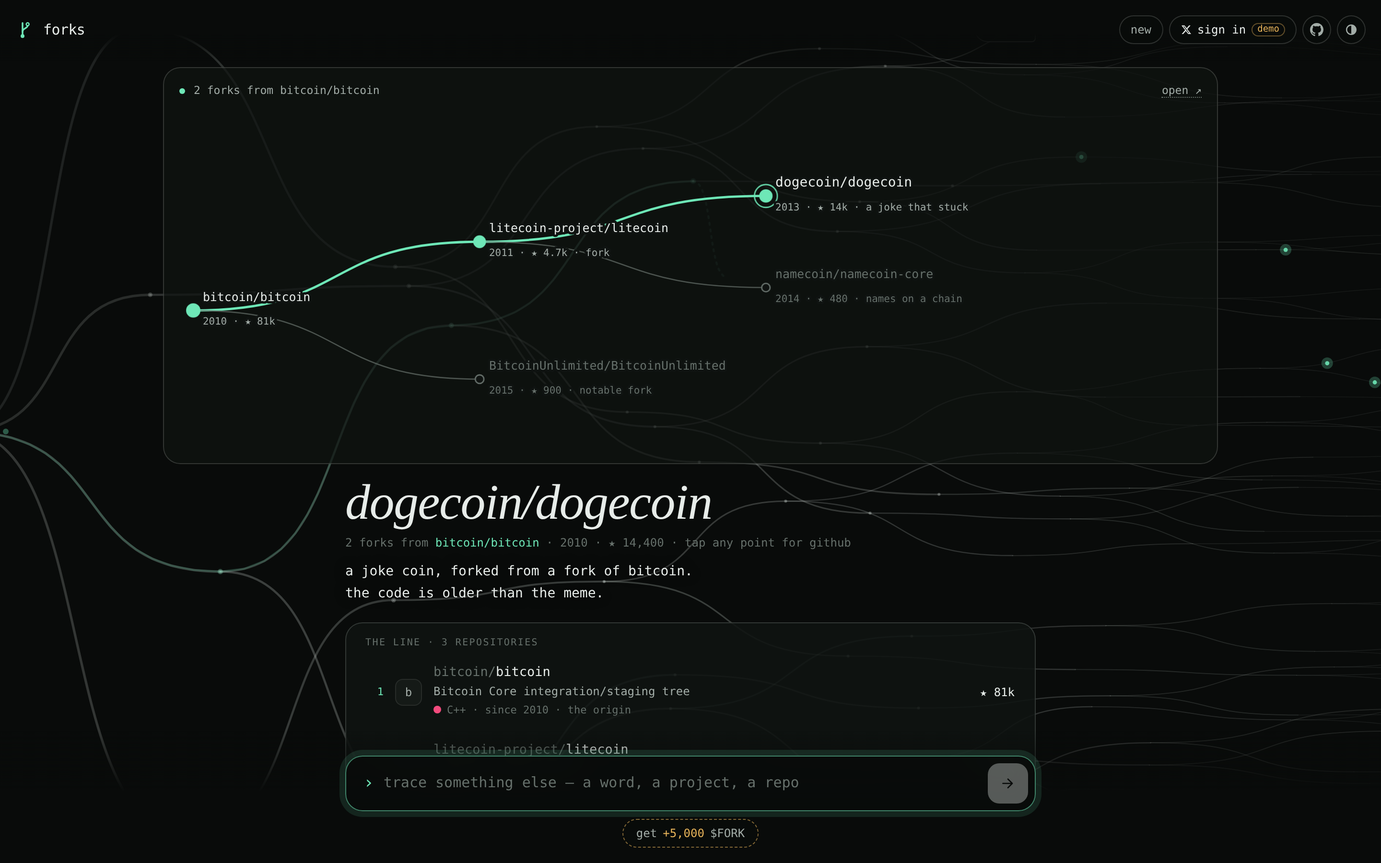
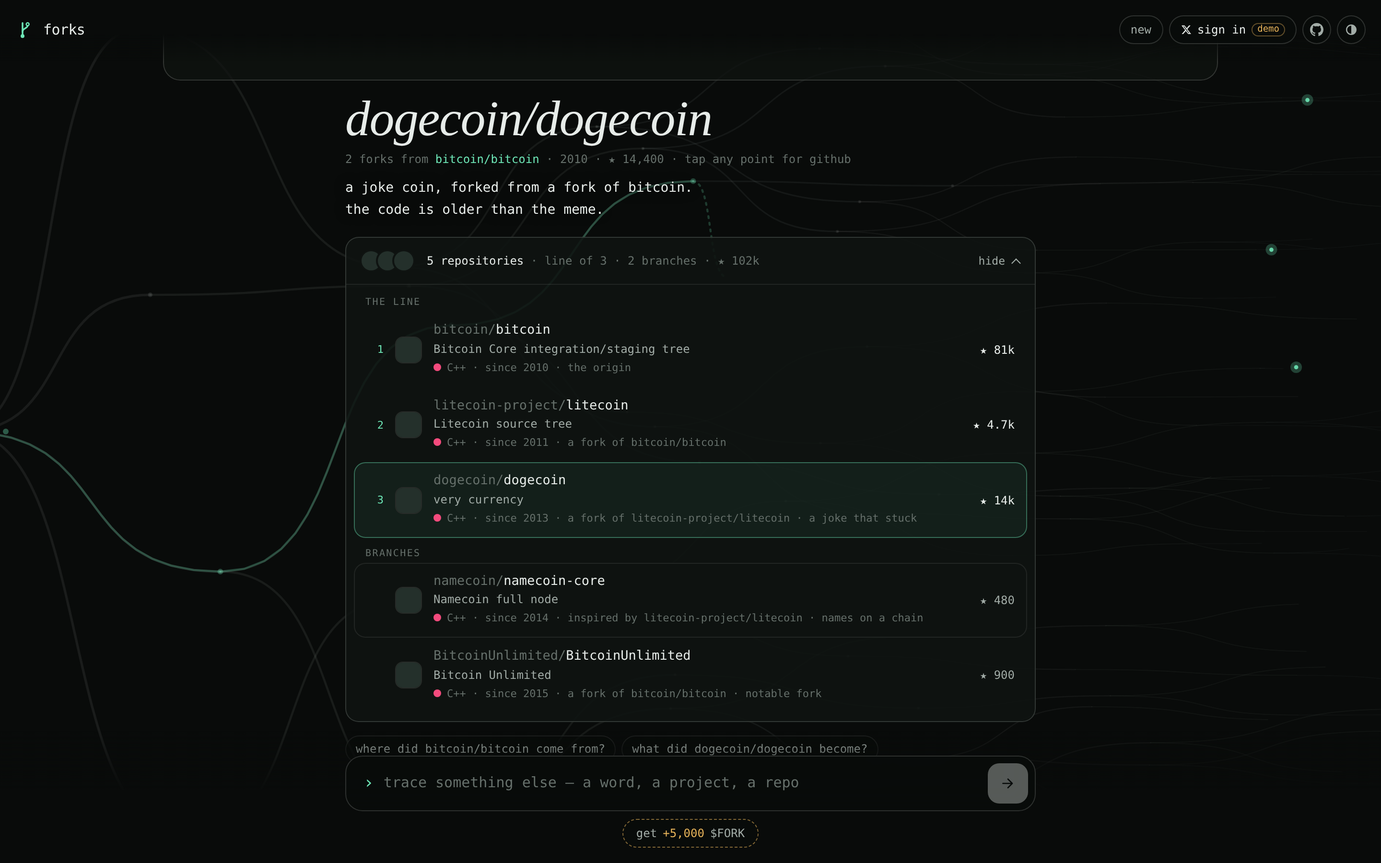
forks 3.2: folded repository list, a new face for the repo

diff --git a/index.html b/index.html
@@ -253,9 +253,20 @@ body.chat .thread { display: flex; }
 }
 
 /* ---------- the repositories under a tree ---------- */
-.line { margin-top: 18px; display: grid; gap: 2px; padding: 6px 8px 8px; border: 1px solid var(--rule-2); border-radius: 18px; background: color-mix(in srgb, var(--bg-2) 88%, transparent); backdrop-filter: blur(8px); -webkit-backdrop-filter: blur(8px); }
-.line-k { padding-left: 12px; }
-.line-k { margin: 10px 0 4px; font: 400 10px/1 var(--mono); letter-spacing: .12em; text-transform: uppercase; color: var(--ink-3); }
+.line { margin-top: 16px; border: 1px solid var(--rule-2); border-radius: 14px; background: color-mix(in srgb, var(--bg-2) 88%, transparent); backdrop-filter: blur(8px); -webkit-backdrop-filter: blur(8px); overflow: hidden; }
+.line-t { width: 100%; display: flex; align-items: center; gap: 12px; min-height: 48px; padding: 10px 14px; text-align: left; transition: background .15s; }
+.line-t:hover { background: color-mix(in srgb, var(--ink) 4%, transparent); }
+.line-avs { display: flex; flex: none; }
+.line-avs .rp-av.sm { width: 24px; height: 24px; border-radius: 50%; border: 2px solid var(--bg-2); margin-left: -7px; }
+.line-avs .rp-av.sm:first-child { margin-left: 0; }
+.line-avs .rp-av.sm b { font-size: 10px; }
+.line-s { flex: 1; min-width: 0; font: 400 12px/1.4 var(--mono); color: var(--ink-3); overflow: hidden; text-overflow: ellipsis; white-space: nowrap; }
+.line-s b { font-weight: 500; color: var(--ink); }
+.line-x { flex: none; font: 400 11.5px var(--mono); color: var(--ink-2); }
+.line-x::after { content: ""; display: inline-block; width: 6px; height: 6px; margin: 0 2px 2px 8px; border-right: 1.4px solid currentColor; border-bottom: 1.4px solid currentColor; transform: rotate(45deg); transition: transform .2s var(--ease); }
+.line.open .line-x::after { transform: rotate(-135deg); margin-bottom: -2px; }
+.line-body { padding: 2px 8px 8px; border-top: 1px solid var(--rule); animation: rise .3s var(--ease) both; }
+.line-k { margin: 12px 0 4px; padding-left: 12px; font: 400 10px/1 var(--mono); letter-spacing: .12em; text-transform: uppercase; color: var(--ink-3); }
 .rp { display: grid; grid-template-columns: auto 28px minmax(0, 1fr) auto; gap: 12px; align-items: center; padding: 10px 12px; border-radius: 12px; border: 1px solid transparent; text-decoration: none; color: inherit; transition: background .15s, border-color .15s, transform .15s var(--ease); }
 .rp:hover { background: color-mix(in srgb, var(--bg-2) 85%, transparent); border-color: var(--rule); }
 .rp:active { transform: scale(.995); }

diff --git a/src/app.js b/src/app.js
@@ -178,9 +178,21 @@
         `<span class="rp-meta">${d && d.lang ? `<i style="background:${LANG[d.lang] || 'var(--ink-3)'}"></i>${esc(d.lang)} · ` : ''}${d ? 'since ' + B.year(d.created) + ' · ' : ''}${esc(how)}</span></span>` +
         (d ? `<span class="rp-s">★ ${kfmt(d.stars)}</span>` : '') + '</a>';
     };
+    // folded by default: one line with the faces of the line; the full list opens on tap
     const el = document.createElement('div'); el.className = 'line';
-    el.innerHTML = `<div class="line-k">the line · ${path.length} repositor${path.length > 1 ? 'ies' : 'y'}</div>${path.map((i, k) => row(i, k + 1)).join('')}` +
-      (branches.length ? `<div class="line-k">branches · ${branches.length}</div>${branches.map(i => row(i, 0)).join('')}` : '');
+    const total = c.nodes.length, stars = c.nodes.reduce((s, x) => s + (x.data ? x.data.stars : 0), 0);
+    el.innerHTML = `<button class="line-t" type="button" aria-expanded="false">` +
+        `<span class="line-avs">${path.slice(0, 5).map(i => { const o = c.nodes[i].repo.split('/')[0]; return `<span class="rp-av sm" data-owner="${esc(o)}"><b>${esc(o[0] || '?')}</b></span>`; }).join('')}</span>` +
+        `<span class="line-s"><b>${total} repositories</b> · line of ${path.length}${branches.length ? ` · ${branches.length} branch${branches.length > 1 ? 'es' : ''}` : ''}${stars ? ` · ★ ${kfmt(stars)}` : ''}</span>` +
+        `<span class="line-x">show</span></button>` +
+      `<div class="line-body" hidden><div class="line-k">the line</div>${path.map((i, k) => row(i, k + 1)).join('')}` +
+      (branches.length ? `<div class="line-k">branches</div>${branches.map(i => row(i, 0)).join('')}` : '') + '</div>';
+    const t = el.querySelector('.line-t'), body = el.querySelector('.line-body');
+    t.addEventListener('click', () => {
+      const open = body.hidden; body.hidden = !open; el.classList.toggle('open', open);
+      t.setAttribute('aria-expanded', String(open)); t.querySelector('.line-x').textContent = open ? 'hide' : 'show';
+      if (open) requestAnimationFrame(() => el.scrollIntoView({ block: 'nearest', behavior: RM.matches ? 'auto' : 'smooth' }));
+    });
     // owners' avatars from github, initials where they can't load
     el.querySelectorAll('.rp-av').forEach(a => {
       const img = new Image(); img.alt = ''; img.width = 28; img.height = 28; img.decoding = 'async';

diff --git a/README.md b/README.md
@@ -2,133 +2,121 @@
 
 <img src="docs/media/banner.svg" alt="forks — where did it come from?" width="100%">
 
-<br>
+### Type anything. Watch the GitHub repositories it came from grow.
 
-**Type anything and watch the line of GitHub repositories it came from grow.**<br>
-Every point is a real public repository — a fork, a port, a rewrite, a project built on or inspired by the one before — with its stars, its year and a link.
+Every point is a real public repository — a fork, a port, a rewrite, a project built on the one before — with its stars, its year and one tap to GitHub.
 
-<br>
-
-[![License: MIT](https://img.shields.io/badge/license-MIT-6EE7B7?style=flat-square&labelColor=090B0A)](LICENSE)
-[![Zero build](https://img.shields.io/badge/build-none-151A17?style=flat-square&labelColor=090B0A)](#run-it)
-[![Vanilla JS](https://img.shields.io/badge/vanilla-JS-151A17?style=flat-square&labelColor=090B0A)](src)
-[![GitHub data](https://img.shields.io/badge/every%20point-a%20real%20repo-2E6B52?style=flat-square&labelColor=090B0A)](#how-it-works)
-[![$FORK](https://img.shields.io/badge/%24FORK-%2Ffreeforks-E8B45A?style=flat-square&labelColor=090B0A)](#fork-freeforks)
-
-[**forks.wiki**](https://forks.wiki) · [**Run it**](#run-it) · [**How it works**](#how-it-works) · [**Setup**](SETUP.ru.md)
+[![forks.wiki](https://img.shields.io/badge/forks.wiki-live-6EE7B7?style=flat-square&labelColor=090B0A)](https://forks.wiki)
+[![License: MIT](https://img.shields.io/badge/license-MIT-151A17?style=flat-square&labelColor=090B0A)](LICENSE)
+[![No build](https://img.shields.io/badge/vanilla%20JS-no%20build-151A17?style=flat-square&labelColor=090B0A)](src)
+[![DeepSeek](https://img.shields.io/badge/deepseek--flash-1%20call%20per%20question-151A17?style=flat-square&labelColor=090B0A)](#what-a-question-costs)
+[![$FORK](https://img.shields.io/badge/%24FORK-%2Ffreeforks-E8B45A?style=flat-square&labelColor=090B0A)](#fork)
 
 <br>
 
-<img src="docs/media/shot-answer.png" alt="dogecoin traced on the stage: bitcoin/bitcoin → litecoin-project/litecoin → dogecoin/dogecoin, the line in mint" width="100%">
+<img src="docs/media/demo.gif" alt="typing 'where did dogecoin come from?': probes search, then the line grows bitcoin/bitcoin → litecoin-project/litecoin → dogecoin/dogecoin, with branches, and the list of repositories opens" width="100%">
 
 </div>
 
 <br>
 
-## Everything forks from something
+`bitcoin/bitcoin` was forked into `litecoin-project/litecoin`, which was forked into `dogecoin/dogecoin`. `neovim/neovim` forked `vim/vim`. `ollama/ollama` is built on `ggml-org/llama.cpp`. Open source is one family tree, and forks shows you a branch of it from a single question — a word, a project, `owner/name`, a GitHub link, even something that isn't software at all.
 
-`bitcoin/bitcoin` was forked into `litecoin-project/litecoin`, which was forked into `dogecoin/dogecoin`. `neovim/neovim` forked `vim/vim`. `ollama/ollama` is built on `ggml-org/llama.cpp`, which grew out of `ggml-org/ggml`. Open source is one big family tree — forks is a way to see a branch of it from a single question:
+<table>
+<tr>
+<td width="68%"><img src="docs/media/shot-answer.png" alt="the result: dogecoin/dogecoin, 2 forks from bitcoin/bitcoin, and the repositories — the line numbered from the origin, then the branches"></td>
+<td width="32%"><img src="docs/media/shot-phone.png" alt="the same tree on a phone, growing top to bottom like git log --graph"></td>
+</tr>
+<tr>
+<td><sub><b>The result.</b> The line from the origin to your answer, the branches around it, every repo with its stars, language, age and how it came from its parent. Folded into one line until you open it.</sub></td>
+<td><sub><b>On a phone</b> the tree grows top to bottom, one row per repository.</sub></td>
+</tr>
+</table>
 
-```
-where did it come from?
-```
-
-Type a word, an idea, a product, `owner/name` or a GitHub link. Even things that aren't software: `doge` gets you the coins people built around it.
-
-## The trace stage
-
-While upstream looks, probes reach out from a seed and fall back. Then the line grows from the origin repository, point by point — each with its year, its stars and what changed — side branches sprout as it passes, the status line walks the points, and it arrives at the repository you asked about, ringed. Under it: the name, how many forks from which origin, the stars, upstream's line or two, and **the repositories** — the line numbered from the origin, then the branches, each with the owner's avatar, description, language, age, how it came from its parent and stars, one tap from GitHub. On a phone the same tree grows top → down, one row per repository, like `git log --graph`.
-
-**Tap any point** for its card: description, language, stars, since when, how it came from its parent (*a fork of …*, *a rewrite of …*, *built on …*), and links — **open on github**, its **forks**, the **network graph**, the homepage — then *trace from here* or *what did it become?*.
-
-<div align="center">
-<img src="docs/media/shot-ai.png" alt="the repositories under the tree: the line from bitcoin/bitcoin to dogecoin/dogecoin, then the branches, each with stars, language and how it came" width="92%">
-</div>
-
-## How it works
+## How a question becomes a tree
 
 ```mermaid
 flowchart LR
-  you["anything you type"] --> t["/api/trace"]
-  t -- "1 · search (free, cached)" --> s["GitHub search<br/>candidates"]
-  t -- "2 · one call, ~250 tokens" --> m["deepseek-flash<br/>thinking off · json"]
-  t -- "3 · one GraphQL call" --> v["check every repo<br/>+ its top real forks"]
-  v --> stage["the stage grows the line<br/>+ the list of repositories"]
-  t -. "same question again" .-> c[("cache<br/>CDN · a week")]
+  q["anything you type"] --> t["/api/trace"]
+  t -- "1 · free" --> s["GitHub search<br/>candidates"]
+  t -- "2 · one call" --> m["deepseek-flash<br/>thinking off · json"]
+  t -- "3 · one call" --> g["GitHub GraphQL<br/>check every repo<br/>+ its top real forks"]
+  g --> stage["the stage"]
+  t -. "asked before" .-> c[("cache · a week")]
 ```
 
-1. **Candidates from GitHub.** The server searches GitHub for what you typed (free, cached).
-2. **One model call.** `deepseek-flash` with thinking off answers in compact json: 8–14 repositories from the origin to your answer, the interesting branches hanging off it (famous forks, ports, rewrites, successors) and a line or two. No tool loop, no history — about 250 output tokens.
-3. **GitHub checks and grows it.** One GraphQL call looks up every repository and its most-starred forks. Repos that don't exist are dropped, duplicates merged, renamed ones get their current name, GitHub's own forks are marked, the origin's real parent is added above it, and notable real forks (≥ 100 stars) are hung on for free, up to 16 points.
-4. **Cached.** The same question is answered from the CDN for a week and never reaches the model again.
+1. **Candidates.** The server searches GitHub for what you typed.
+2. **One model call.** `deepseek-flash`, thinking off, answers in compact json: 8–14 repositories from the origin to your answer, with the interesting branches — famous forks, ports, rewrites, successors.
+3. **GitHub checks it.** One GraphQL call looks up every repository: what doesn't exist is dropped, duplicates merged, renamed repos get their current name, GitHub's own forks are marked, the origin's real parent is added above it, and notable real forks (≥ 100★) are hung on for free — up to 16 points.
+4. **The stage grows it.** Probes while it looks, then the line point by point, side branches as it passes, the answer ringed. Tap any point for its card: GitHub, its forks, the network graph, *trace from here*.
 
-Stars, years, avatars and links are GitHub's, never the model's.
+Stars, years, avatars and links come from GitHub, never from the model.
 
-Without a model, forks falls back to GitHub alone: the most-starred match and the forks GitHub records above it. Details: [docs/UPSTREAM.md](docs/UPSTREAM.md).
+## What a question costs
 
-| Where it runs | Model | GitHub check |
-|---|---|---|
-| [forks.wiki](https://forks.wiki) / your Netlify deploy | DeepSeek `deepseek-flash` via [`trace.mjs`](netlify/functions/trace.mjs) (`FORKS_LLM_KEY`; any OpenAI-compatible API works) | yes, with `GITHUB_TOKEN` |
-| As a Claude artifact | Claude, through the page's `sample` capability | no — names as the model gave them |
-| Local dev | same functions, run by `npm start` | with `GITHUB_TOKEN` |
-
-The model key and the GitHub token never reach the browser. `/api/trace` takes only the question, sends its own brief, caches answers and limits new traces per IP; `/api/repos` validates names, caches for a day and rate-limits per IP.
-
-**What a question costs.** About 700 input tokens (most of them the same brief every time, which DeepSeek bills at the cache-hit rate) and about 250 output tokens: a fraction of a cent per new question at `deepseek-flash` prices, and nothing for a question already asked. DeepSeek is prepaid, so the balance is the hard cap.
-
-## $FORK · /freeforks
-
-The button under the input — **get +5,000 $FORK** — or `/freeforks` starts the trials in the chat: sign in with X, then four small forks of your own, one at a time.
-
-| Trial | Opens | Pending $FORK |
-|---|---|---|
-| follow | `x.com/intent/follow?screen_name=…` | 1,500 |
-| like | `x.com/intent/like?tweet_id=…` | 1,000 |
-| repost | `x.com/intent/retweet?tweet_id=…` | 1,250 |
-| comment | the post itself | 1,250 |
-
-**GO** opens the link and starts the server's clock; five seconds later the claim counts — nothing is checked against X. Then a Solana wallet and the summary. The account and post live in `src/config.js`; amounts live in the database, never in the browser. Allocations are **pending**, never a balance.
+| | |
+|---|---|
+| A new question | one `deepseek-flash` call · ~700 tokens in (mostly the same brief, billed at the cache-hit rate) · ~250 out · **a fraction of a cent** |
+| The same question again | **free** — answered from the CDN for a week |
+| GitHub | free with a token · one search + one GraphQL call per new question |
+| Abuse | new traces limited per IP (`FORKS_TRACES_PER_MIN`, default 8); DeepSeek is prepaid, so the balance is the cap |
 
 ## Run it
 
 ```bash
-git clone https://github.com/forkwiki/fork.git
-cd fork
-npm start                                   # http://127.0.0.1:5173
-GITHUB_TOKEN=… FORKS_LLM_KEY=sk-… npm start  # with GitHub and DeepSeek
+git clone https://github.com/forkwiki/fork.git && cd fork
+GITHUB_TOKEN=… FORKS_LLM_KEY=sk-… npm start   # http://127.0.0.1:5173
 ```
 
-`npm start` runs every function in `netlify/functions` the way Netlify routes them. Without the X / Supabase variables, `/freeforks` runs as a labelled demo.
+No dependencies, no build step. `npm start` serves the page and runs every function in `netlify/functions` the way Netlify routes them.
 
-**Deploy:** import the repo into Netlify; there is no build step, `netlify.toml` ships the functions. Every variable and every step is in **[SETUP.ru.md](SETUP.ru.md)**; `GET /api/health` lists whatever is still missing.
+## Deploy
 
-| File | What it does |
+The page needs its functions, so deploy with the Netlify CLI or from Git — **not** by dragging a zip into Netlify (that uploads the page without the functions).
+
+```bash
+npx netlify-cli login
+npx netlify-cli link          # once: pick the site
+npx netlify-cli deploy --prod
+```
+
+Set the environment variables in Netlify first, then deploy:
+
+| Variable | |
 |---|---|
-| `src/prompt.js` | upstream's brief and the json it answers with — shared by `/api/trace` and the Claude artifact. |
-| `src/brain.js` | Routing, which brain the page has (`/api/trace` or Claude), the GitHub-only fallback. |
-| `src/stage.js` | The trace stage: probes, the growing line, side branches, status, focus ring. |
-| `src/app.js` | The page: input, messages, the result under each stage, repository cards, full view, theme, $FORK button. |
-| `src/quest.js`, `src/config.js` | `/freeforks` and every public setting. |
-| `netlify/functions/repos.mjs` | GitHub: GraphQL lookup of up to 12 repos, search; token server-side. |
-| `netlify/functions/trace.mjs` | The whole answer in one request: candidates, one model call, the GitHub check, the cache. |
-| `netlify/lib/github.mjs`, `lineage.mjs` | GitHub GraphQL / search; turning the model's proposal into a tree of real repos. |
-| `netlify/functions/{auth-start,auth-callback,api}.mjs`, `supabase/` | Sign in with X and the trials. |
+| `FORKS_LLM_KEY` | DeepSeek API key (any OpenAI-compatible API works with `FORKS_LLM_URL` / `FORKS_LLM_MODEL`) |
+| `GITHUB_TOKEN` | fine-grained token, public repositories read-only |
+| `X_CLIENT_ID`, `X_CLIENT_SECRET`, `SESSION_SECRET`, `SUPABASE_URL`, `SUPABASE_SERVICE_ROLE_KEY`, `SITE_URL` | only for `/freeforks` |
 
-## Design
+`GET /api/health` lists whatever is still missing. Step by step, in Russian: **[SETUP.ru.md](SETUP.ru.md)**.
 
-One question in **Instrument Serif**, everything else in **JetBrains Mono**. Near-black with a single mint accent that only ever means *the line*. The logo, the underline under the question, the background canopy and every tree are the same gesture — **a line that forks.** See [docs/DESIGN_SYSTEM.md](docs/DESIGN_SYSTEM.md) and [docs/MOTION_SYSTEM.md](docs/MOTION_SYSTEM.md).
+## $FORK
 
-## Roadmap
+The **get +5,000 $FORK** button, or `/freeforks`: sign in with X, then four trials one at a time — follow, like, repost, comment — each counted by the server five seconds after its link opens. Then a Solana wallet. Allocations are **pending**, never a balance. The X account and post live in `src/config.js`, the amounts in the database.
 
-- [x] The trace stage
-- [x] Every point a real GitHub repository, checked
-- [x] $FORK trials with sign-in with X
-- [ ] Shareable trace links (`forks.wiki/?q=…`)
-- [x] One cheap model call per question, cached
-- [ ] Streaming for the endpoint backend
+## Inside
+
+```
+index.html               the page: tokens, layout, every style
+src/
+  prompt.js              upstream's brief and its json — shared by the server and the Claude artifact
+  brain.js               routing, which brain the page has, the GitHub-only fallback
+  stage.js               the growing tree
+  app.js                 input, results, the repository list, cards, full view
+  field.js               the living canopy behind everything
+  quest.js · config.js   /freeforks and every public setting
+netlify/
+  functions/trace.mjs    one request → one answer: candidates, one model call, the check, the cache
+  functions/repos.mjs    GitHub for the fallback
+  functions/auth-*.mjs · api.mjs    sign in with X, the trials
+  lib/github.mjs · lineage.mjs      GitHub GraphQL and search; proposal → tree of real repos
+supabase/migrations/     the trials' database, closed to anon
+```
+
+More: [docs/UPSTREAM.md](docs/UPSTREAM.md) · [docs/DESIGN_SYSTEM.md](docs/DESIGN_SYSTEM.md) · [docs/DECISIONS.md](docs/DECISIONS.md) · [CHANGELOG.md](CHANGELOG.md)
 
 ## License
 
 [MIT](LICENSE). Repository data comes from GitHub's API; forks links to every repository it shows.
 
-<div align="center"><br><img src="docs/media/logo.svg" width="40" alt=""><br><sub><i>everything forks from something.</i></sub></div>
+<div align="center"><br><img src="docs/media/logo.svg" width="36" alt=""><br><sub><i>everything forks from something.</i></sub></div>

diff --git a/SETUP.ru.md b/SETUP.ru.md
@@ -46,7 +46,14 @@
 
 ## 3. Netlify
 
-1. Сайт подключён к GitHub-репо `forkwiki/fork`, деплой из Git. Drag-and-drop не подходит: функции не задеплоятся.
+1. Как заливать. **Не перетаскивай zip в Netlify**: так загрузится только страница, без функций, и деревья не построятся (`/api/trace` будет 404). Два рабочих способа:
+   - **Netlify CLI с компьютера** (нужен Node 18+). Из распакованной папки проекта:
+     ```bash
+     npx netlify-cli login          # один раз
+     npx netlify-cli link           # один раз: выбрать сайт forks.wiki
+     npx netlify-cli deploy --prod  # каждый раз, когда заливаешь новую версию
+     ```
+   - **Из GitHub**: Netlify → Site configuration → Build & deploy → Link repository → `forkwiki/fork`. Тогда каждый пуш в репозиторий сам обновляет сайт.
 2. Site configuration → Environment variables (Scope: Functions, «Contains secret values»):
 
 | Переменная | Значение | Обязательно |
@@ -61,7 +68,7 @@
 | `FORKS_LLM_URL`, `FORKS_LLM_MODEL` | endpoint и модель | нет (`https://api.deepseek.com/chat/completions`, `deepseek-flash`) |
 | `FORKS_TRACES_PER_MIN` | новых деревьев с одного IP в минуту | нет (8) |
 
-3. **После изменения env — Deploys → Trigger deploy.** Без редеплоя функции не видят новые значения.
+3. **После изменения env заново задеплой** (`npx netlify-cli deploy --prod` или Deploys → Trigger deploy). Без этого функции не видят новые значения.
 4. Открыть `https://forks.wiki/api/health`. Ждём `"ok": true`; `missing` и `config` пустые, `db.ok: true`, `db.schema: "1"`, `github: true`, `model: true`. Поле `callback_url` скопировать в X Portal символ в символ.
 5. DeepSeek работает по предоплате: сколько положил на баланс, больше не потратится. Один новый вопрос — около 700 токенов на вход (большая часть — одинаковый промпт, он идёт по цене кэша) и около 250 на выход; повторный вопрос модель не трогает (кэш на неделю). В логах функции `trace` видно токены каждого вызова.
 6. Пройти вход целиком с телефона, в том числе из браузера внутри X: кнопка **get +5,000 $FORK** → sign in with x → X → назад → четыре задания → кошелёк.

diff --git a/docs/DECISIONS.md b/docs/DECISIONS.md
@@ -6,6 +6,7 @@ Non-obvious choices, one line of why each.
 - **Memes are gone** — the 81-object meme archive and its scripts were removed in 3.0; history keeps them.
 - **The answer is a growing tree, not a chat bubble** — every lineage plays on a wide stage: probes while looking, then origin → each point → the asked thing, side forks sprouting as the line passes; the text is the caption under it. Phones get the same tree as rows (git-graph), never a squeezed horizontal one.
 - **One model call per question, not a tool loop** — the 3.0 loop (search → trace → text, 3+ calls, history resent each time) cost ~5× more; now the server does the searching and checking for free and the model answers once in compact json (~250 tokens). Thinking is off: its tokens are billed and the tree doesn't need them.
+- **The list folds** — a 16-repo list under every tree was more than most people want; one line with the faces of the line and the counts, the full list a tap away.
 - **Cache by question** — CDN for a week + memory; the same question costs nothing the second time.
 - **Free richness from GitHub** — notable real forks (≥ 100 stars, ≥ 0.5% of the parent) are added by the server, so trees grow without more model tokens.
 - **One GraphQL call per tree** — up to 12 repos per request instead of 12 REST calls; answers cached on Netlify's CDN for a day, so a popular line costs nothing the second time.

diff --git a/docs/DESIGN_SYSTEM.md b/docs/DESIGN_SYSTEM.md
@@ -28,5 +28,6 @@ Mint never decorates. If it's mint, it's on the line from your object to its ori
 - **Chip** — pill, hairline, veil. Starters, follow-ups, commands.
 - **Card** — 14px radius, `--bg-2` at 97%, header row `// kind · subject` in 11px meta with actions on the right, optional legend footer.
 - **Stage** — 18px radius, about half the screen tall on wide screens. Points are repositories: name above the line, `year · ★ stars · what changed` under it; the line to the asked repo in mint, side branches in ink-3; the asked repo ringed. Phones: one row per repository, elbows like `git log --graph`.
+- **Repository list** — under the result, folded to one 48px line: overlapping avatars of the line, `N repositories · line of n · m branches · ★ total`, *show*. Open: the line numbered in mint from the origin, then the branches; each row = avatar, `owner/` dim + `name`, description, language dot, since, how it came, stars; the asked repo outlined in mint.
 - **Point card** — floating card (bottom sheet on phones): serif name, `★ stars · language · since year`, how it came from its parent in mint, description, links to GitHub / forks / network graph / homepage, then *trace from here*.
 - **Pill** — top bar controls: new, sign in / your pending $FORK, GitHub, theme.

diff --git a/CHANGELOG.md b/CHANGELOG.md
@@ -1,5 +1,11 @@
 # Changelog
 
+## 3.2.0 — 2026-11-04
+
+- The repositories under a tree are folded into one line — the faces of the line, *5 repositories · line of 3 · 2 branches · ★ total* — and open on tap.
+- The GitHub repo, redone: a short README with a demo GIF of a tree growing, a desktop and a phone still, how a question becomes a tree, what it costs, how to run and deploy; `docs/media/social.png` (1280×640) for the repository's social preview; the old v1 logos removed.
+- Deploy notes: use the Netlify CLI or Git — dragging a zip into Netlify uploads the page without its functions.
+
 ## 3.1.0 — 2026-11-04
 
 - **One cheap call per question.** `GET /api/trace?q=` does it all: GitHub search for candidates → **one** `deepseek-flash` call (thinking off, json out, ~250 tokens, compact `{"t","f","n":[[repo,parent,rel,note]],"l"}`) → one GraphQL check of every repo. No tool loop, no history. A bad answer gets one retry.
